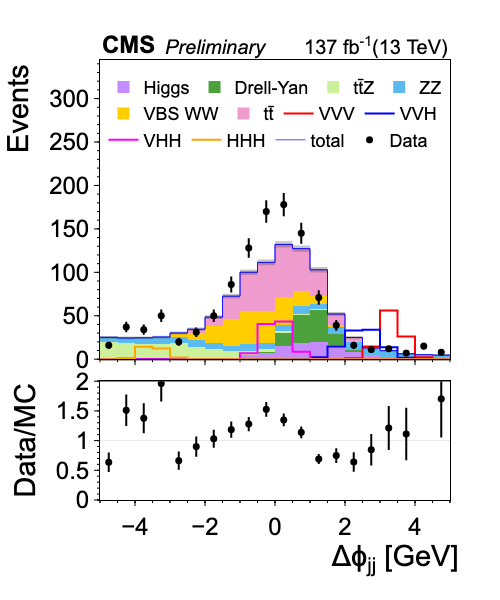
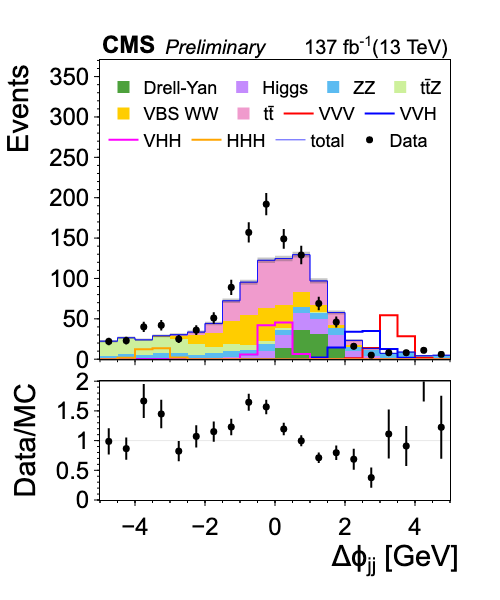
Add hide ratio feature

diff --git a/examples/example1/plot.html b/examples/example1/plot.html
@@ -9,7 +9,7 @@ window.PlotlyConfig = {MathJaxConfig: 'local'};
 <script src="https://cdn.plot.ly/plotly-2.3.0.min.js"></script>
 
     <div
-        id=174c81c6-b13f-4319-88d7-55ba57dacafa
+        id=ea3bcac7-da68-449a-82a8-6f487c430b4e
         class="plotly-graph-div"
         style="height:600; width:500;">
     </div>
@@ -17,11 +17,11 @@ window.PlotlyConfig = {MathJaxConfig: 'local'};
         
         window.PLOTLYENV = window.PLOTLYENV || {}
         
-        if (document.getElementById('174c81c6-b13f-4319-88d7-55ba57dacafa')) {
+        if (document.getElementById('ea3bcac7-da68-449a-82a8-6f487c430b4e')) {
     Plotly.newPlot(
-        '174c81c6-b13f-4319-88d7-55ba57dacafa',
-        [{"showlegend":false,"xaxis":"x","type":"scatter","name":"Data/MC","yaxis":"y"},{"showlegend":false,"xaxis":"x2","type":"scatter","name":"ratiopanel_minorticks","yaxis":"y2"},{"showlegend":false,"xaxis":"x3","type":"scatter","name":"ratiopanel_unityline","yaxis":"y3"},{"showlegend":false,"xaxis":"x4","type":"scatter","name":"mainpanel_majorticks","yaxis":"y4"},{"showlegend":false,"xaxis":"x5","type":"scatter","name":"mainpanel_minorticks","yaxis":"y5"},{"showlegend":false,"mode":"markers","xaxis":"x","name":"Data/MC","opacity":1,"error_y":{"array":[0.1636916691436713,0.2663644670831981,0.25179505026469906,0.3032666481032683,0.15290881379656288,0.16847913603357378,0.1531261224766738,0.13508972238560593,0.12003304946098996,0.1256548298156899,0.10758620566716223,0.09983423882667179,0.08457986678477085,0.12427098253937634,0.16504060106531362,0.26569958155346757,0.37050947661766787,0.44267726271644203,0.8277253982779301,0.6509978456223647],"width":0},"yaxis":"y","marker":{"color":"black","size":7},"y":[0.6349206349206349,1.5102040816326527,1.3765182186234817,1.9607843137254906,0.662251655629139,0.8985507246376812,1.0309278350515463,1.1845730027548207,1.2787212787212787,1.526032315978456,1.3474640423921271,1.139041633935585,0.6893203883495146,0.7485604606525912,0.64,0.8461538461538461,1.2121212121212122,1.111111111111111,2.830188679245283,1.702127659574468],"type":"scatter","x":[-4.75,-4.25,-3.75,-3.25,-2.75,-2.25,-1.75,-1.25,-0.75,-0.25,0.25,0.75,1.25,1.75,2.25,2.75,3.25,3.75,4.25,4.75]},{"x":[-4.75,-4.25,-3.75,-3.25,-2.75,-2.25,-1.75,-1.25,-0.75,-0.25,0.25,0.75,1.25,1.75,2.25,2.75,3.25,3.75,4.25,4.75],"xaxis":"x4","y":[0.0,0.0,0.0,0.0,0.0,0.0,0.5,1.9000000000000001,4.6000000000000005,6.800000000000001,15.700000000000001,18.8,20.3,15.9,8.5,4.7,1.8,0.4,0.0,0.0,0.0],"type":"bar","name":"Higgs","opacity":1.0,"yaxis":"y4","legendgroup":1,"marker":{"color":"rgba(196 , 139 , 253 , 1)"}},{"x":[-4.75,-4.25,-3.75,-3.25,-2.75,-2.25,-1.75,-1.25,-0.75,-0.25,0.25,0.75,1.25,1.75,2.25,2.75,3.25,3.75,4.25,4.75],"xaxis":"x4","y":[0.0,0.0,0.0,0.0,0.0,0.0,0.0,0.0,0.2,1.8,14.8,31.900000000000002,36.300000000000004,12.700000000000001,2.2,0.1,0.0,0.0,0.0,0.0,0.0],"type":"bar","name":"Drell-Yan","opacity":1.0,"yaxis":"y4","legendgroup":2,"marker":{"color":"rgba(77 , 161 , 60 , 1)"}},{"x":[-4.75,-4.25,-3.75,-3.25,-2.75,-2.25,-1.75,-1.25,-0.75,-0.25,0.25,0.75,1.25,1.75,2.25,2.75,3.25,3.75,4.25,4.75],"xaxis":"x4","y":[20.0,18.900000000000002,18.0,17.0,18.6,14.4,10.700000000000001,7.800000000000001,4.9,3.5,1.8,1.5,0.7000000000000001,0.5,0.0,0.0,0.1,0.0,0.0,0.0,0.0],"type":"bar","name":"tt̄Z","opacity":1.0,"yaxis":"y4","legendgroup":3,"marker":{"color":"rgba(205 , 240 , 155 , 1)"}},{"x":[-4.75,-4.25,-3.75,-3.25,-2.75,-2.25,-1.75,-1.25,-0.75,-0.25,0.25,0.75,1.25,1.75,2.25,2.75,3.25,3.75,4.25,4.75],"xaxis":"x4","y":[5.2,5.6000000000000005,6.6000000000000005,7.2,7.1000000000000005,7.7,7.800000000000001,5.800000000000001,8.3,7.0,7.300000000000001,8.700000000000001,6.2,7.7,8.8,7.2,7.7,5.7,5.300000000000001,4.7,4.7],"type":"bar","name":"ZZ","opacity":1.0,"yaxis":"y4","legendgroup":4,"marker":{"color":"rgba(91 , 187 , 241 , 1)"}},{"x":[-4.75,-4.25,-3.75,-3.25,-2.75,-2.25,-1.75,-1.25,-0.75,-0.25,0.25,0.75,1.25,1.75,2.25,2.75,3.25,3.75,4.25,4.75],"xaxis":"x4","y":[0.0,0.0,0.1,0.4,3.1,8.3,19.6,30.700000000000003,37.7,36.7,31.8,17.8,9.600000000000001,2.9000000000000004,1.2000000000000002,0.1,0.0,0.0,0.0,0.0,0.0],"type":"bar","name":"VBS WW","opacity":1.0,"yaxis":"y4","legendgroup":5,"marker":{"color":"rgba(255, 205, 0, 1)"}},{"x":[-4.75,-4.25,-3.75,-3.25,-2.75,-2.25,-1.75,-1.25,-0.75,-0.25,0.25,0.75,1.25,1.75,2.25,2.75,3.25,3.75,4.25,4.75],"xaxis":"x4","y":[0.0,0.0,0.0,0.9,1.4000000000000001,4.1000000000000005,9.9,26.400000000000002,44.400000000000006,55.6,60.7,48.6,29.900000000000002,12.4,4.3,0.9,0.30000000000000004,0.2,0.0,0.0,0.0],"type":"bar","name":"tt̄","opacity":1.0,"yaxis":"y4","legendgroup":6,"marker":{"color":"rgba(240 , 155 , 205 , 1)"}},{"showlegend":true,"mode":"lines","xaxis":"x4","fillcolor":"blue","name":"VVV","fill":"","opacity":1,"yaxis":"y4","legendgroup":-201,"marker":{"size":0},"line":{"color":"rgba(255, 0, 0, 1)","shape":"hv","width":2},"y":[0.0,0.0,0.0,0.0,0.0,0.0,0.0,0.0,0.0,0.0,0.0,0.0,0.0,0.0,1.0,14.5,56.0,26.200000000000003,2.3000000000000003,0.0,0.0],"type":"scatter","x":[-5.0,-4.5,-4.0,-3.5,-3.0,-2.5,-2.0,-1.5,-1.0,-0.5,0.0,0.5,1.0,1.5,2.0,2.5,3.0,3.5,4.0,4.5,5.0]},{"showlegend":true,"mode":"lines","xaxis":"x4","fillcolor":"blue","name":"VVH","fill":"","opacity":1,"yaxis":"y4","legendgroup":-202,"marker":{"size":0},"line":{"color":"rgba(0, 0, 255, 1)","shape":"hv","width":2},"y":[0.0,0.0,0.0,0.0,0.0,0.0,0.0,0.0,0.0,0.0,0.0,0.30000000000000004,2.3000000000000003,14.700000000000001,33.0,33.9,13.8,1.8,0.2,0.0,0.0],"type":"scatter","x":[-5.0,-4.5,-4.0,-3.5,-3.0,-2.5,-2.0,-1.5,-1.0,-0.5,0.0,0.5,1.0,1.5,2.0,2.5,3.0,3.5,4.0,4.5,5.0]},{"showlegend":true,"mode":"lines","xaxis":"x4","fillcolor":"blue","name":"VHH","fill":"","opacity":1,"yaxis":"y4","legendgroup":-203,"marker":{"size":0},"line":{"color":"rgba(255, 0, 255, 1)","shape":"hv","width":2},"y":[0.0,0.0,0.0,0.0,0.0,0.0,0.0,0.30000000000000004,6.800000000000001,40.6,43.5,8.6,0.2,0.0,0.0,0.0,0.0,0.0,0.0,0.0,0.0],"type":"scatter","x":[-5.0,-4.5,-4.0,-3.5,-3.0,-2.5,-2.0,-1.5,-1.0,-0.5,0.0,0.5,1.0,1.5,2.0,2.5,3.0,3.5,4.0,4.5,5.0]},{"showlegend":true,"mode":"lines","xaxis":"x4","fillcolor":"blue","name":"HHH","fill":"","opacity":1,"yaxis":"y4","legendgroup":-204,"marker":{"size":0},"line":{"color":"rgba(255, 165, 0, 1)","shape":"hv","width":2},"y":[0.06,1.5,14.219999999999999,12.18,2.01,0.03,0.0,0.0,0.0,0.0,0.0,0.0,0.0,0.0,0.0,0.0,0.0,0.0,0.0,0.0,0.0],"type":"scatter","x":[-5.0,-4.5,-4.0,-3.5,-3.0,-2.5,-2.0,-1.5,-1.0,-0.5,0.0,0.5,1.0,1.5,2.0,2.5,3.0,3.5,4.0,4.5,5.0]},{"showlegend":false,"mode":"lines","xaxis":"x4","fillcolor":"blue","name":"total","fill":"","opacity":0.7,"yaxis":"y4","marker":{"size":0},"line":{"color":"blue","shape":"hv","width":1},"y":[25.2,24.500000000000004,24.700000000000003,25.499999999999996,30.200000000000003,34.5,48.5,72.60000000000001,100.10000000000001,111.4,132.1,127.30000000000001,103.0,52.1,25.0,13.0,9.9,6.300000000000001,5.300000000000001,4.7,4.7],"type":"scatter","x":[-5.0,-4.5,-4.0,-3.5,-3.0,-2.5,-2.0,-1.5,-1.0,-0.5,0.0,0.5,1.0,1.5,2.0,2.5,3.0,3.5,4.0,4.5,5.0]},{"showlegend":false,"mode":"lines","line":{"shape":"hv","width":0},"xaxis":"x4","x":[-5.0,-4.5,-4.0,-3.5,-3.0,-2.5,-2.0,-1.5,-1.0,-0.5,0.0,0.5,1.0,1.5,2.0,2.5,3.0,3.5,4.0,4.5,5.0],"y":[26.787450786638754,26.065247584249857,26.271623364550173,27.09687194226713,31.93781471969828,36.35741756210067,50.70227155455452,75.29443871706151,103.26385840391129,114.73766385365573,135.73455636907724,130.86791255498227,106.20936130717624,54.38254244210267,26.58113883008419,14.140175425099137,10.89498743710662,7.093725393319378,6.028010988928052,5.385565460040104,5.385565460040104],"type":"scatter","name":"total +1σ","yaxis":"y4","marker":{"color":"#444"}},{"showlegend":false,"mode":"lines","xaxis":"x4","fillcolor":"rgba(68, 68, 68, 0.3)","name":"total -1σ","fill":"tonexty","yaxis":"y4","marker":{"color":"#444"},"line":{"shape":"hv","width":0},"y":[23.612549213361245,22.93475241575015,23.128376635449833,23.903128057732864,28.462185280301725,32.64258243789933,46.29772844544548,69.9055612829385,96.93614159608873,108.06233614634428,128.46544363092275,123.73208744501775,99.79063869282376,49.817457557897335,23.41886116991581,11.859824574900863,8.905012562893381,5.506274606680623,4.571989011071949,4.014434539959896,4.014434539959896],"type":"scatter","x":[-5.0,-4.5,-4.0,-3.5,-3.0,-2.5,-2.0,-1.5,-1.0,-0.5,0.0,0.5,1.0,1.5,2.0,2.5,3.0,3.5,4.0,4.5,5.0]},{"showlegend":true,"mode":"lines","xaxis":"x4","fillcolor":"blue","name":"total","fill":"","opacity":0.7,"yaxis":"y4","legendgroup":-100,"marker":{"size":0},"line":{"color":"blue","width":1,"shape":"hv"},"y":[25.2,24.500000000000004,24.700000000000003,25.499999999999996,30.200000000000003,34.5,48.5,72.60000000000001,100.10000000000001,111.4,132.1,127.30000000000001,103.0,52.1,25.0,13.0,9.9,6.300000000000001,5.300000000000001,4.7,4.7],"type":"scatter","x":[-5.0,-4.5,-4.0,-3.5,-3.0,-2.5,-2.0,-1.5,-1.0,-0.5,0.0,0.5,1.0,1.5,2.0,2.5,3.0,3.5,4.0,4.5,5.0]},{"mode":"markers","xaxis":"x4","name":"Data","opacity":1,"error_y":{"array":[4.0,6.082762530298219,5.830951894845301,7.0710678118654755,4.47213595499958,5.5677643628300215,7.0710678118654755,9.273618495495704,11.313708498984761,13.038404810405298,13.341664064126334,12.041594578792296,8.426149773176359,6.244997998398398,4.0,3.3166247903554,3.4641016151377544,2.6457513110645907,3.872983346207417,2.8284271247461903],"width":0},"yaxis":"y4","legendgroup":-1,"marker":{"color":"black","size":7},"y":[16.0,37.0,34.0,50.0,20.0,31.0,50.0,86.0,128.0,170.0,178.0,145.0,71.0,39.0,16.0,11.0,12.0,7.0,15.0,8.0],"type":"scatter","x":[-4.75,-4.25,-3.75,-3.25,-2.75,-2.25,-1.75,-1.25,-0.75,-0.25,0.25,0.75,1.25,1.75,2.25,2.75,3.25,3.75,4.25,4.75]}],
-        {"xaxis":{"ticklen":5,"ticks":"outside","range":[-5.0,5.0],"domain":[0,1],"nticks":10,"color":"black","showgrid":false,"zeroline":false,"title":{"standoff":1,"text":"&nbsp;&nbsp;&nbsp;&nbsp;&nbsp;&nbsp;&nbsp;&nbsp;&nbsp;&nbsp;&nbsp;&nbsp;&nbsp;&nbsp;&nbsp;&nbsp;&nbsp;&nbsp;&nbsp;&nbsp;&nbsp;&nbsp;&nbsp;&nbsp;&nbsp;&nbsp;&nbsp;&nbsp;&nbsp;&nbsp;Δϕ<sub>jj</sub> [GeV]"},"linewidth":1,"mirror":true},"bargap":0,"template":"simple_white","height":600,"yaxis4":{"ticklen":5,"ticks":"outside","range":[0.0,344.41499531542746],"domain":[0.32,1.0],"nticks":8,"color":"black","showgrid":false,"zeroline":false,"title":{"standoff":1,"text":"&nbsp;&nbsp;&nbsp;&nbsp;&nbsp;&nbsp;&nbsp;&nbsp;&nbsp;&nbsp;&nbsp;&nbsp;&nbsp;&nbsp;&nbsp;&nbsp;&nbsp;&nbsp;&nbsp;&nbsp;&nbsp;&nbsp;&nbsp;&nbsp;&nbsp;Events"},"linewidth":1,"mirror":true,"anchor":"x4"},"yaxis":{"ticklen":5,"ticks":"outside","range":[0,2],"domain":[0.0,0.27],"nticks":8,"color":"black","showgrid":false,"zeroline":false,"title":{"standoff":1,"text":"Data/MC"},"linewidth":1,"mirror":true},"yaxis2":{"showticklabels":false,"ticklen":2,"overlaying":"y","ticks":"outside","range":[0,2],"domain":[0.0,0.27],"nticks":32,"color":"black","showgrid":false,"zeroline":false,"linewidth":1,"mirror":true,"matches":"y"},"xaxis3":{"showticklabels":false,"ticklen":2,"overlaying":"x","ticks":"outside","range":[-5.0,5.0],"domain":[0,1],"nticks":40,"color":"black","showgrid":false,"zeroline":false,"linewidth":1,"mirror":true,"matches":"x"},"legend":{"yanchor":"top","xanchor":"center","itemwidth":0,"y":0.98,"font":{"color":"black","family":"Arial","size":18},"bgcolor":"rgba(255,255,255,0.3)","tracegroupgap":0,"orientation":"h","traceorder":"grouped","x":0.5},"barmode":"stack","autosize":false,"yaxis3":{"showticklabels":false,"ticklen":2,"overlaying":"y","ticks":"outside","range":[0,2],"domain":[0.0,0.27],"nticks":4,"color":"black","showgrid":true,"zeroline":false,"linewidth":1,"mirror":true,"matches":"y"},"yaxis5":{"showticklabels":false,"ticklen":2,"overlaying":"y4","ticks":"outside","range":[0,2],"domain":[0.32,1.0],"nticks":40,"color":"black","showgrid":false,"zeroline":false,"linewidth":1,"mirror":true,"matches":"y4","anchor":"x5"},"xaxis4":{"showticklabels":false,"ticklen":5,"ticks":"outside","range":[-5.0,5.0],"domain":[0,1],"nticks":10,"color":"black","showgrid":false,"zeroline":false,"linewidth":1,"mirror":true,"matches":"x","anchor":"y4"},"font":{"family":"Arial","size":24},"annotations":[{"yanchor":"bottom","xanchor":"left","y":1.0,"font":{"color":"black","size":24},"yref":"paper","showarrow":false,"text":"<b>CMS</b>","xref":"paper","x":0.0},{"yanchor":"bottom","xanchor":"left","y":1.0,"font":{"color":"black","size":20},"yref":"paper","showarrow":false,"text":"<i>Preliminary</i>","xref":"paper","x":0.18},{"yanchor":"bottom","xanchor":"right","y":1.0,"font":{"color":"black","size":20},"yref":"paper","showarrow":false,"text":"137 fb<sup>-1</sup>(13 TeV)","xref":"paper","x":1.0}],"xaxis2":{"showticklabels":false,"ticklen":2,"overlaying":"x","ticks":"outside","range":[-5.0,5.0],"domain":[0,1],"nticks":40,"color":"black","showgrid":false,"zeroline":false,"linewidth":1,"mirror":true,"matches":"x"},"margin":{"l":100,"b":100,"r":50,"t":60},"xaxis5":{"showticklabels":false,"ticklen":2,"overlaying":"x4","ticks":"outside","range":[-5.0,5.0],"domain":[0,1],"nticks":50,"color":"black","showgrid":false,"zeroline":false,"linewidth":1,"mirror":true,"matches":"x","anchor":"y4"},"width":500},
+        'ea3bcac7-da68-449a-82a8-6f487c430b4e',
+        [{"showlegend":false,"xaxis":"x","type":"scatter","name":"Data/MC","yaxis":"y"},{"showlegend":false,"xaxis":"x2","type":"scatter","name":"ratiopanel_minorticks","yaxis":"y2"},{"showlegend":false,"xaxis":"x3","type":"scatter","name":"ratiopanel_unityline","yaxis":"y3"},{"showlegend":false,"xaxis":"x4","type":"scatter","name":"mainpanel_majorticks","yaxis":"y4"},{"showlegend":false,"xaxis":"x5","type":"scatter","name":"mainpanel_minorticks","yaxis":"y5"},{"showlegend":false,"mode":"markers","xaxis":"x","name":"Data/MC","opacity":1,"error_y":{"array":[0.22046369807166755,0.18792752079792235,0.28463752127665554,0.23910942231352528,0.1711029817489782,0.1878943860032683,0.1702326944282536,0.13808052411159114,0.14173734508096367,0.12165540431638419,0.10357052152693252,0.09196979049514604,0.08862876909986107,0.12192126303172757,0.17747034081964325,0.17125650784574148,0.41408666249996096,0.33570406630727107,0.8427498280790526,0.5296181377430014],"width":0},"yaxis":"y","marker":{"color":"black","size":7},"y":[0.9865470852017937,0.8646616541353384,1.6666666666666667,1.4482758620689653,0.8223684210526315,1.0714285714285714,1.1512415349887133,1.229281767955801,1.6457023060796645,1.5673469387755101,1.1948676824378508,0.9961389961389961,0.711340206185567,0.795847750865052,0.6866952789699571,0.37593984962406013,1.111111111111111,0.9090909090909091,2.5,1.2244897959183672],"type":"scatter","x":[-4.75,-4.25,-3.75,-3.25,-2.75,-2.25,-1.75,-1.25,-0.75,-0.25,0.25,0.75,1.25,1.75,2.25,2.75,3.25,3.75,4.25,4.75]},{"x":[-4.75,-4.25,-3.75,-3.25,-2.75,-2.25,-1.75,-1.25,-0.75,-0.25,0.25,0.75,1.25,1.75,2.25,2.75,3.25,3.75,4.25,4.75],"xaxis":"x4","y":[0.0,0.0,0.0,0.0,0.0,0.0,0.0,0.0,0.0,1.9000000000000001,14.0,36.4,31.400000000000002,14.5,1.8,0.0,0.0,0.0,0.0,0.0,0.0],"type":"bar","name":"Drell-Yan","opacity":1.0,"yaxis":"y4","legendgroup":1,"marker":{"color":"rgba(77 , 161 , 60 , 1)"}},{"x":[-4.75,-4.25,-3.75,-3.25,-2.75,-2.25,-1.75,-1.25,-0.75,-0.25,0.25,0.75,1.25,1.75,2.25,2.75,3.25,3.75,4.25,4.75],"xaxis":"x4","y":[0.0,0.0,0.0,0.0,0.0,0.2,0.4,3.0,4.2,8.4,15.4,21.1,17.900000000000002,15.9,7.9,4.4,0.8,0.2,0.2,0.0,0.0],"type":"bar","name":"Higgs","opacity":1.0,"yaxis":"y4","legendgroup":2,"marker":{"color":"rgba(196 , 139 , 253 , 1)"}},{"x":[-4.75,-4.25,-3.75,-3.25,-2.75,-2.25,-1.75,-1.25,-0.75,-0.25,0.25,0.75,1.25,1.75,2.25,2.75,3.25,3.75,4.25,4.75],"xaxis":"x4","y":[3.7,6.6000000000000005,5.2,7.300000000000001,8.1,5.2,6.800000000000001,7.4,6.9,8.6,7.300000000000001,6.9,8.3,8.3,5.800000000000001,6.5,6.300000000000001,8.5,4.1000000000000005,4.9,4.9],"type":"bar","name":"ZZ","opacity":1.0,"yaxis":"y4","legendgroup":3,"marker":{"color":"rgba(91 , 187 , 241 , 1)"}},{"x":[-4.75,-4.25,-3.75,-3.25,-2.75,-2.25,-1.75,-1.25,-0.75,-0.25,0.25,0.75,1.25,1.75,2.25,2.75,3.25,3.75,4.25,4.75],"xaxis":"x4","y":[18.6,20.0,18.5,20.200000000000003,17.2,13.9,8.200000000000001,8.5,5.9,3.8000000000000003,1.8,0.5,0.7000000000000001,0.4,0.2,0.30000000000000004,0.0,0.0,0.0,0.0,0.0],"type":"bar","name":"tt̄Z","opacity":1.0,"yaxis":"y4","legendgroup":4,"marker":{"color":"rgba(205 , 240 , 155 , 1)"}},{"x":[-4.75,-4.25,-3.75,-3.25,-2.75,-2.25,-1.75,-1.25,-0.75,-0.25,0.25,0.75,1.25,1.75,2.25,2.75,3.25,3.75,4.25,4.75],"xaxis":"x4","y":[0.0,0.0,0.30000000000000004,1.0,3.8000000000000003,10.3,17.1,28.5,37.2,41.0,28.900000000000002,18.0,8.8,3.5,1.3,0.2,0.0,0.0,0.1,0.0,0.0],"type":"bar","name":"VBS WW","opacity":1.0,"yaxis":"y4","legendgroup":5,"marker":{"color":"rgba(255, 205, 0, 1)"}},{"x":[-4.75,-4.25,-3.75,-3.25,-2.75,-2.25,-1.75,-1.25,-0.75,-0.25,0.25,0.75,1.25,1.75,2.25,2.75,3.25,3.75,4.25,4.75],"xaxis":"x4","y":[0.0,0.0,0.0,0.5,1.3,4.0,11.8,25.0,41.2,58.800000000000004,57.300000000000004,46.6,29.900000000000002,15.200000000000001,6.300000000000001,1.9000000000000001,0.1,0.1,0.0,0.0,0.0],"type":"bar","name":"tt̄","opacity":1.0,"yaxis":"y4","legendgroup":6,"marker":{"color":"rgba(240 , 155 , 205 , 1)"}},{"showlegend":true,"mode":"lines","xaxis":"x4","fillcolor":"blue","name":"VVV","fill":"","opacity":1,"yaxis":"y4","legendgroup":-201,"marker":{"size":0},"line":{"color":"rgba(255, 0, 0, 1)","shape":"hv","width":2},"y":[0.0,0.0,0.0,0.0,0.0,0.0,0.0,0.0,0.0,0.0,0.0,0.0,0.0,0.0,1.3,13.8,54.5,28.5,1.9000000000000001,0.0,0.0],"type":"scatter","x":[-5.0,-4.5,-4.0,-3.5,-3.0,-2.5,-2.0,-1.5,-1.0,-0.5,0.0,0.5,1.0,1.5,2.0,2.5,3.0,3.5,4.0,4.5,5.0]},{"showlegend":true,"mode":"lines","xaxis":"x4","fillcolor":"blue","name":"VVH","fill":"","opacity":1,"yaxis":"y4","legendgroup":-202,"marker":{"size":0},"line":{"color":"rgba(0, 0, 255, 1)","shape":"hv","width":2},"y":[0.0,0.0,0.0,0.0,0.0,0.0,0.0,0.0,0.0,0.0,0.0,0.1,2.0,14.4,34.0,35.0,12.600000000000001,1.8,0.1,0.0,0.0],"type":"scatter","x":[-5.0,-4.5,-4.0,-3.5,-3.0,-2.5,-2.0,-1.5,-1.0,-0.5,0.0,0.5,1.0,1.5,2.0,2.5,3.0,3.5,4.0,4.5,5.0]},{"showlegend":true,"mode":"lines","xaxis":"x4","fillcolor":"blue","name":"VHH","fill":"","opacity":1,"yaxis":"y4","legendgroup":-203,"marker":{"size":0},"line":{"color":"rgba(255, 0, 255, 1)","shape":"hv","width":2},"y":[0.0,0.0,0.0,0.0,0.0,0.0,0.0,0.4,5.7,42.0,45.300000000000004,6.300000000000001,0.30000000000000004,0.0,0.0,0.0,0.0,0.0,0.0,0.0,0.0],"type":"scatter","x":[-5.0,-4.5,-4.0,-3.5,-3.0,-2.5,-2.0,-1.5,-1.0,-0.5,0.0,0.5,1.0,1.5,2.0,2.5,3.0,3.5,4.0,4.5,5.0]},{"showlegend":true,"mode":"lines","xaxis":"x4","fillcolor":"blue","name":"HHH","fill":"","opacity":1,"yaxis":"y4","legendgroup":-204,"marker":{"size":0},"line":{"color":"rgba(255, 165, 0, 1)","shape":"hv","width":2},"y":[0.06,1.95,12.299999999999999,13.469999999999999,2.2199999999999998,0.0,0.0,0.0,0.0,0.0,0.0,0.0,0.0,0.0,0.0,0.0,0.0,0.0,0.0,0.0,0.0],"type":"scatter","x":[-5.0,-4.5,-4.0,-3.5,-3.0,-2.5,-2.0,-1.5,-1.0,-0.5,0.0,0.5,1.0,1.5,2.0,2.5,3.0,3.5,4.0,4.5,5.0]},{"showlegend":false,"mode":"lines","xaxis":"x4","fillcolor":"blue","name":"total","fill":"","opacity":0.7,"yaxis":"y4","marker":{"size":0},"line":{"color":"blue","shape":"hv","width":1},"y":[22.3,26.6,24.0,29.000000000000004,30.400000000000002,33.6,44.300000000000004,72.4,95.4,122.5,124.7,129.5,97.0,57.8,23.3,13.3,7.200000000000001,8.8,4.4,4.9,4.9],"type":"scatter","x":[-5.0,-4.5,-4.0,-3.5,-3.0,-2.5,-2.0,-1.5,-1.0,-0.5,0.0,0.5,1.0,1.5,2.0,2.5,3.0,3.5,4.0,4.5,5.0]},{"showlegend":false,"mode":"lines","line":{"shape":"hv","width":0},"xaxis":"x4","x":[-5.0,-4.5,-4.0,-3.5,-3.0,-2.5,-2.0,-1.5,-1.0,-0.5,0.0,0.5,1.0,1.5,2.0,2.5,3.0,3.5,4.0,4.5,5.0],"y":[23.79331845230681,28.23095064303001,25.549193338482965,30.702938636592645,32.14355957741627,35.43303027798234,46.40475651798492,75.09072480941475,98.4886890422961,126.0,128.2312887166019,133.09861084308932,100.1144823004795,60.20416305603426,24.826433752247375,14.45325625946708,8.048528137423858,9.738083151964688,5.06332495807108,5.6000000000000005,5.6000000000000005],"type":"scatter","name":"total +1σ","yaxis":"y4","marker":{"color":"#444"}},{"showlegend":false,"mode":"lines","xaxis":"x4","fillcolor":"rgba(68, 68, 68, 0.3)","name":"total -1σ","fill":"tonexty","yaxis":"y4","marker":{"color":"#444"},"line":{"shape":"hv","width":0},"y":[20.80668154769319,24.969049356969993,22.450806661517035,27.297061363407362,28.65644042258373,31.766969722017667,42.19524348201509,69.70927519058526,92.31131095770391,119.0,121.16871128339808,125.90138915691068,93.8855176995205,55.39583694396573,21.773566247752626,12.146743740532921,6.351471862576144,7.861916848035315,3.7366750419289203,4.2,4.2],"type":"scatter","x":[-5.0,-4.5,-4.0,-3.5,-3.0,-2.5,-2.0,-1.5,-1.0,-0.5,0.0,0.5,1.0,1.5,2.0,2.5,3.0,3.5,4.0,4.5,5.0]},{"showlegend":true,"mode":"lines","xaxis":"x4","fillcolor":"blue","name":"total","fill":"","opacity":0.7,"yaxis":"y4","legendgroup":-100,"marker":{"size":0},"line":{"color":"blue","width":1,"shape":"hv"},"y":[22.3,26.6,24.0,29.000000000000004,30.400000000000002,33.6,44.300000000000004,72.4,95.4,122.5,124.7,129.5,97.0,57.8,23.3,13.3,7.200000000000001,8.8,4.4,4.9,4.9],"type":"scatter","x":[-5.0,-4.5,-4.0,-3.5,-3.0,-2.5,-2.0,-1.5,-1.0,-0.5,0.0,0.5,1.0,1.5,2.0,2.5,3.0,3.5,4.0,4.5,5.0]},{"mode":"markers","xaxis":"x4","name":"Data","opacity":1,"error_y":{"array":[4.69041575982343,4.795831523312719,6.324555320336759,6.48074069840786,5.0,6.0,7.14142842854285,9.433981132056603,12.529964086141668,13.856406460551018,12.206555615733702,11.357816691600547,8.306623862918075,6.782329983125268,4.0,2.23606797749979,2.8284271247461903,2.8284271247461903,3.3166247903554,2.449489742783178],"width":0},"yaxis":"y4","legendgroup":-1,"marker":{"color":"black","size":7},"y":[22.0,23.0,40.0,42.0,25.0,36.0,51.0,89.0,157.0,192.0,149.0,129.0,69.0,46.0,16.0,5.0,8.0,8.0,11.0,6.0],"type":"scatter","x":[-4.75,-4.25,-3.75,-3.25,-2.75,-2.25,-1.75,-1.25,-0.75,-0.25,0.25,0.75,1.25,1.75,2.25,2.75,3.25,3.75,4.25,4.75]}],
+        {"xaxis":{"ticklen":5,"ticks":"outside","range":[-5.0,5.0],"domain":[0,1],"nticks":10,"color":"black","showgrid":false,"zeroline":false,"title":{"standoff":1,"text":"&nbsp;&nbsp;&nbsp;&nbsp;&nbsp;&nbsp;&nbsp;&nbsp;&nbsp;&nbsp;&nbsp;&nbsp;&nbsp;&nbsp;&nbsp;&nbsp;&nbsp;&nbsp;&nbsp;&nbsp;&nbsp;&nbsp;&nbsp;&nbsp;&nbsp;&nbsp;&nbsp;&nbsp;&nbsp;&nbsp;Δϕ<sub>jj</sub> [GeV]"},"linewidth":1,"mirror":true},"bargap":0,"template":"simple_white","height":600,"yaxis4":{"ticklen":5,"ticks":"outside","range":[0.0,370.54153162899183],"domain":[0.32,1.0],"nticks":8,"color":"black","showgrid":false,"zeroline":false,"title":{"standoff":1,"text":"&nbsp;&nbsp;&nbsp;&nbsp;&nbsp;&nbsp;&nbsp;&nbsp;&nbsp;&nbsp;&nbsp;&nbsp;&nbsp;&nbsp;&nbsp;&nbsp;&nbsp;&nbsp;&nbsp;&nbsp;&nbsp;&nbsp;&nbsp;&nbsp;&nbsp;Events"},"linewidth":1,"mirror":true,"anchor":"x4"},"yaxis":{"ticklen":5,"ticks":"outside","range":[0,2],"domain":[0.0,0.27],"nticks":8,"color":"black","showgrid":false,"zeroline":false,"title":{"standoff":1,"text":"Data/MC"},"linewidth":1,"mirror":true},"yaxis2":{"showticklabels":false,"ticklen":2,"overlaying":"y","ticks":"outside","range":[0,2],"domain":[0.0,0.27],"nticks":32,"color":"black","showgrid":false,"zeroline":false,"linewidth":1,"mirror":true,"matches":"y"},"xaxis3":{"showticklabels":false,"ticklen":2,"overlaying":"x","ticks":"outside","range":[-5.0,5.0],"domain":[0,1],"nticks":40,"color":"black","showgrid":false,"zeroline":false,"linewidth":1,"mirror":true,"matches":"x"},"legend":{"yanchor":"top","xanchor":"center","itemwidth":0,"y":0.98,"font":{"color":"black","family":"Arial","size":18},"bgcolor":"rgba(255,255,255,0.3)","tracegroupgap":0,"orientation":"h","traceorder":"grouped","x":0.5},"barmode":"stack","autosize":false,"yaxis3":{"showticklabels":false,"ticklen":2,"overlaying":"y","ticks":"outside","range":[0,2],"domain":[0.0,0.27],"nticks":4,"color":"black","showgrid":true,"zeroline":false,"linewidth":1,"mirror":true,"matches":"y"},"yaxis5":{"showticklabels":false,"ticklen":2,"overlaying":"y4","ticks":"outside","range":[0,2],"domain":[0.32,1.0],"nticks":40,"color":"black","showgrid":false,"zeroline":false,"linewidth":1,"mirror":true,"matches":"y4","anchor":"x5"},"xaxis4":{"showticklabels":false,"ticklen":5,"ticks":"outside","range":[-5.0,5.0],"domain":[0,1],"nticks":10,"color":"black","showgrid":false,"zeroline":false,"title":{"standoff":1,"text":""},"linewidth":1,"mirror":true,"matches":"x","anchor":"y4"},"font":{"family":"Arial","size":24},"annotations":[{"yanchor":"bottom","xanchor":"left","y":1.0,"font":{"color":"black","size":24},"yref":"paper","showarrow":false,"text":"<b>CMS</b>","xref":"paper","x":0.0},{"yanchor":"bottom","xanchor":"left","y":1.0,"font":{"color":"black","size":20},"yref":"paper","showarrow":false,"text":"<i>Preliminary</i>","xref":"paper","x":0.18},{"yanchor":"bottom","xanchor":"right","y":1.0,"font":{"color":"black","size":20},"yref":"paper","showarrow":false,"text":"137 fb<sup>-1</sup>(13 TeV)","xref":"paper","x":1.0}],"xaxis2":{"showticklabels":false,"ticklen":2,"overlaying":"x","ticks":"outside","range":[-5.0,5.0],"domain":[0,1],"nticks":40,"color":"black","showgrid":false,"zeroline":false,"linewidth":1,"mirror":true,"matches":"x"},"margin":{"l":100,"b":100,"r":50,"t":60},"xaxis5":{"showticklabels":false,"ticklen":2,"overlaying":"x4","ticks":"outside","range":[-5.0,5.0],"domain":[0,1],"nticks":50,"color":"black","showgrid":false,"zeroline":false,"linewidth":1,"mirror":true,"matches":"x","anchor":"y4"},"width":500},
         {"editable":false,"responsive":true,"staticPlot":false,"scrollZoom":true},
     )
 }
